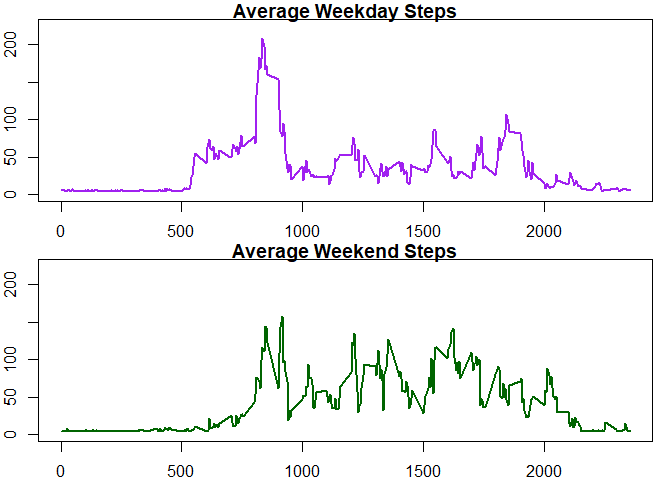
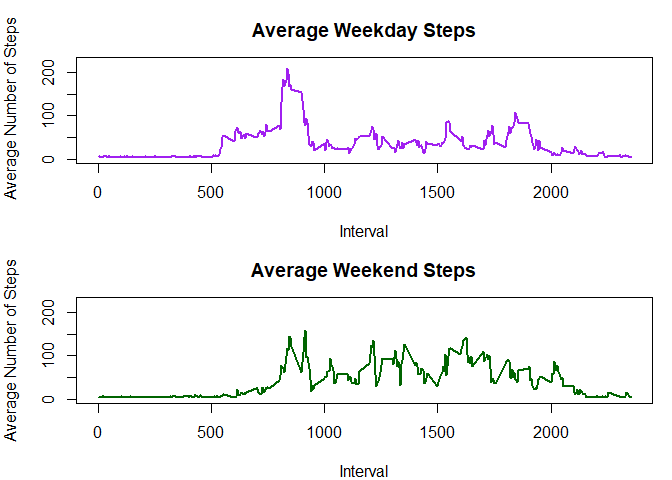
update

diff --git a/PA1_template.md b/PA1_template.md
@@ -42,8 +42,9 @@ are a total of 17,568 observations in this dataset.
     pathdata <- "./"
     list.files("./")
 
-    ## [1] "activity.csv"     "activity.zip"     "finalActivity.R" 
-    ## [4] "PA1_template.Rmd"
+    ## [1] "activity.csv"       "activity.zip"       "doc"               
+    ## [4] "finalActivity.R"    "instructions_fig"   "PA1_template.html" 
+    ## [7] "PA1_template.md"    "PA1_template.Rmd"   "PA1_template_files"
 
     # read data
     activityData <- fread("activity.csv",na.strings = c("NA"))
@@ -279,7 +280,7 @@ weekends?
 
     # plot weekdays
     par(mfrow=c(2,1))
-    par(mar=c(2,2,1,1))
+    par(mar=c(4,4,3,1))
     plot(stepsWD$interval,stepsWD$imputedMeanSteps, type = "l",
          lwd = 2, ylim = c(0,225), main = "Average Weekday Steps",
          ylab = " Average Number of Steps", xlab = "Interval", col = "purple")
